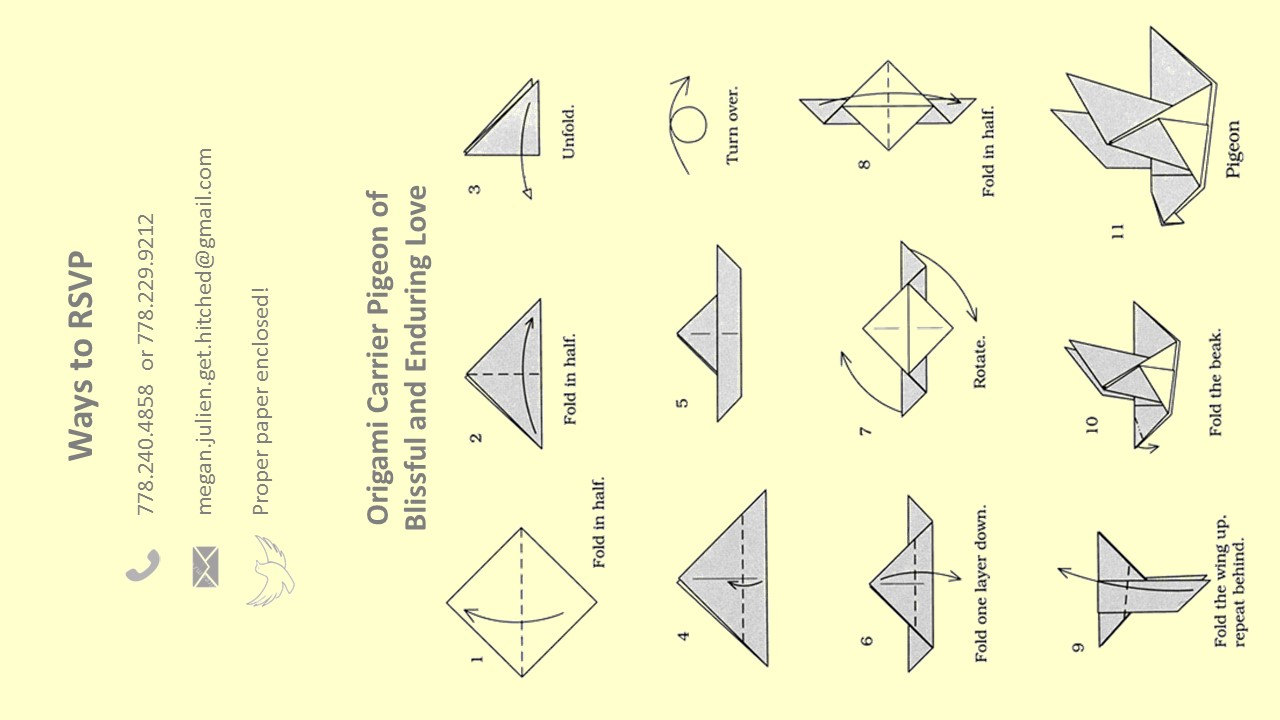
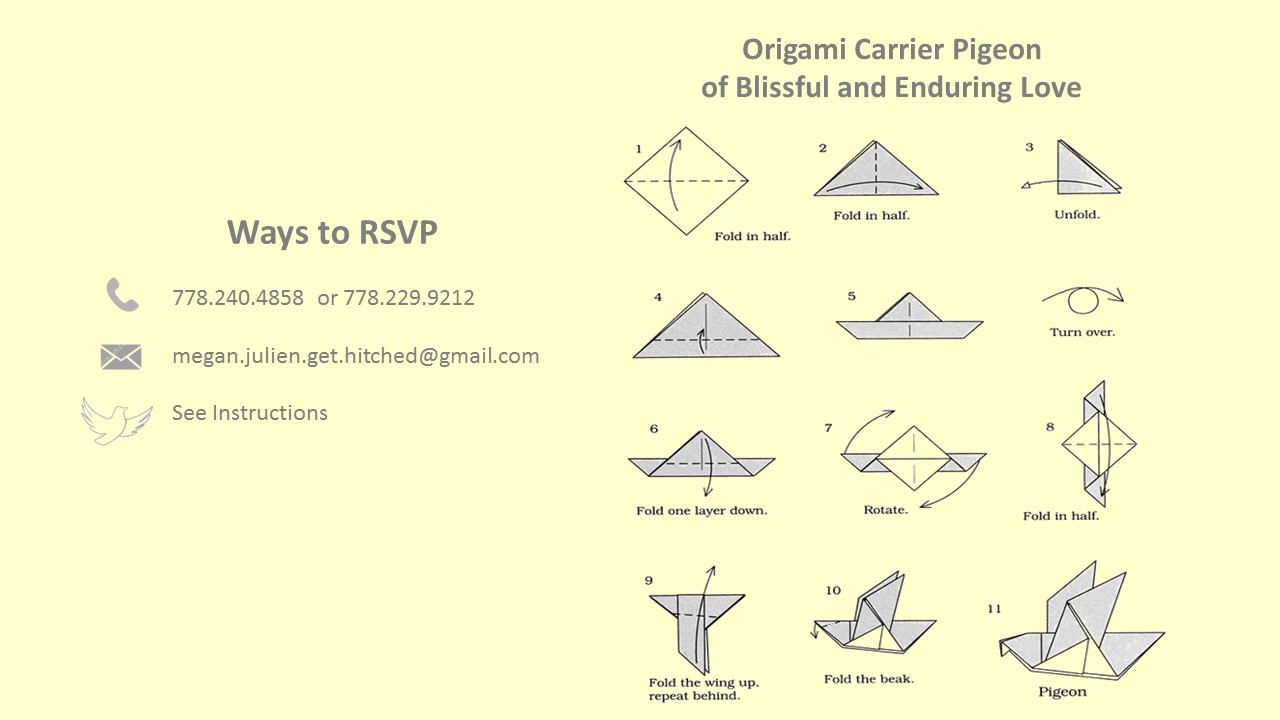
Added more from julien

diff --git a/contact.html b/contact.html
@@ -1,0 +1,43 @@
+<html>
+<head>
+<style>
+	body {
+		font-family: Helvetica, Arial, sans-serif;
+		text-align: center;
+		background-color: #FFFFCD;
+	}
+	h1 {
+		font-size: 20px;
+	}
+	div {
+		width: 100%;
+	}
+	img[usemap] {
+		border: none;
+		height: auto;
+		max-width: 100%;
+		width: auto;
+		max-height: 100%;
+	}
+
+	</style>
+<title>Julien and Megan 2014</title>
+</head>
+<body>
+<img src="./Slide4.JPG" style="height:90%;" usemap="#sleepmap">
+
+
+<script src="http://ajax.googleapis.com/ajax/libs/jquery/1.10.2/jquery.min.js"></script>
+<script src="jquery.rwdImageMaps.min.js"></script>
+<script>
+$(document).ready(function(e) {
+	$('img[usemap]').rwdImageMaps();
+	
+	$('area').on('click', function() {
+		//alert($(this).attr('alt') + ' clicked');
+	});
+});
+</script>
+
+</body>
+</html>

diff --git a/faq.html b/faq.html
@@ -1,0 +1,43 @@
+<html>
+<head>
+<style>
+	body {
+		font-family: Helvetica, Arial, sans-serif;
+		text-align: center;
+		background-color: #FFFFCD;
+	}
+	h1 {
+		font-size: 20px;
+	}
+	div {
+		width: 100%;
+	}
+	img[usemap] {
+		border: none;
+		height: auto;
+		max-width: 100%;
+		width: auto;
+		max-height: 100%;
+	}
+
+	</style>
+<title>Julien and Megan 2014</title>
+</head>
+<body>
+<img src="./Slide5.JPG" style="height:90%;" >
+
+
+<script src="http://ajax.googleapis.com/ajax/libs/jquery/1.10.2/jquery.min.js"></script>
+<script src="jquery.rwdImageMaps.min.js"></script>
+<script>
+$(document).ready(function(e) {
+	$('img[usemap]').rwdImageMaps();
+	
+	$('area').on('click', function() {
+		//alert($(this).attr('alt') + ' clicked');
+	});
+});
+</script>
+
+</body>
+</html>

diff --git a/index.html b/index.html
@@ -37,6 +37,8 @@
 <area shape="rect" coords="321,42,456,165" href="partying.html" alt="Partying"> 
 -->
 <area shape="rect" coords="558,2,678,76" href="sleeping.html" alt="Accomodations">
+<area shape="rect" coords="1042,588,1201,627" href="contact.html" alt="Contact Us">
+<area shape="rect" coords="1033,635,1186,682" href="faq.html" alt="More Info">
 </map>
 
 <script src="http://ajax.googleapis.com/ajax/libs/jquery/1.10.2/jquery.min.js"></script>
